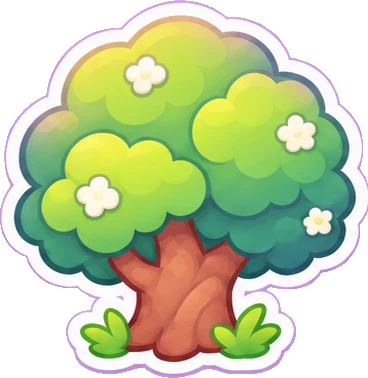
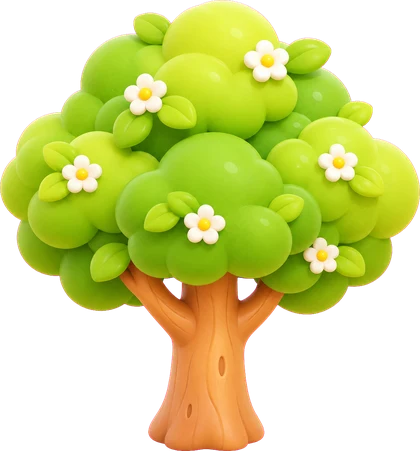
별 잡기: 새 나무(초록·보라·분홍)·덤불·건물(성·가게) 그림으로 교체
Claude-Session: https://claude.ai/code/session_011wWXPXfSDQ7tZhHovBGBy9

diff --git a/src/components/starScene3d.ts b/src/components/starScene3d.ts
@@ -69,10 +69,10 @@ export function createStarScene(el: HTMLElement): StarScene {
       w.addProp(`starchase/${img}.webp`, x, z, h * (0.85 + rnd() * 0.4), aspect, r)
     }
   }
-  put('tree_green', 368 / 378, 6.2, 34, [-75, 35], 48, 1.5, 0.8); put('tree_purple', 362 / 367, 6.2, 22, [-75, 35], 48, 1.5, 0.8)
-  put('bush', 367 / 286, 2.0, 30, [-70, 32], 46, 0.5); put('flowers', 371 / 279, 1.4, 40, [-70, 32], 46, -1)
+  put('tree_green', 420 / 451, 6.2, 30, [-75, 35], 48, 1.5, 0.8); put('tree_dark', 420 / 440, 6.2, 14, [-75, 35], 48, 1.5, 0.8); put('tree_pink', 420 / 438, 6.2, 14, [-75, 35], 48, 1.5, 0.8)
+  put('bush', 360 / 216, 2.0, 30, [-70, 32], 46, 0.5); put('flowers', 371 / 279, 1.4, 40, [-70, 32], 46, -1)
   put('rock', 366 / 257, 1.6, 12, [-70, 32], 46, -1); put('lamp', 301 / 398, 5.0, 8, [-70, 32], 40, 1.2); put('fence', 370 / 243, 2.0, 8, [-70, 32], 40, 1.2)
-  put('house', 371 / 395, 7.0, 4, [-75, 20], 44, 2.5, 1.5)
+  put('castle', 460 / 574, 8.0, 3, [-75, 20], 44, 2.5, 1.8); put('shop', 460 / 543, 7.0, 3, [-75, 20], 44, 2.5, 1.8)
 
   const AH = AVATAR_H
   const KA = 1.5
